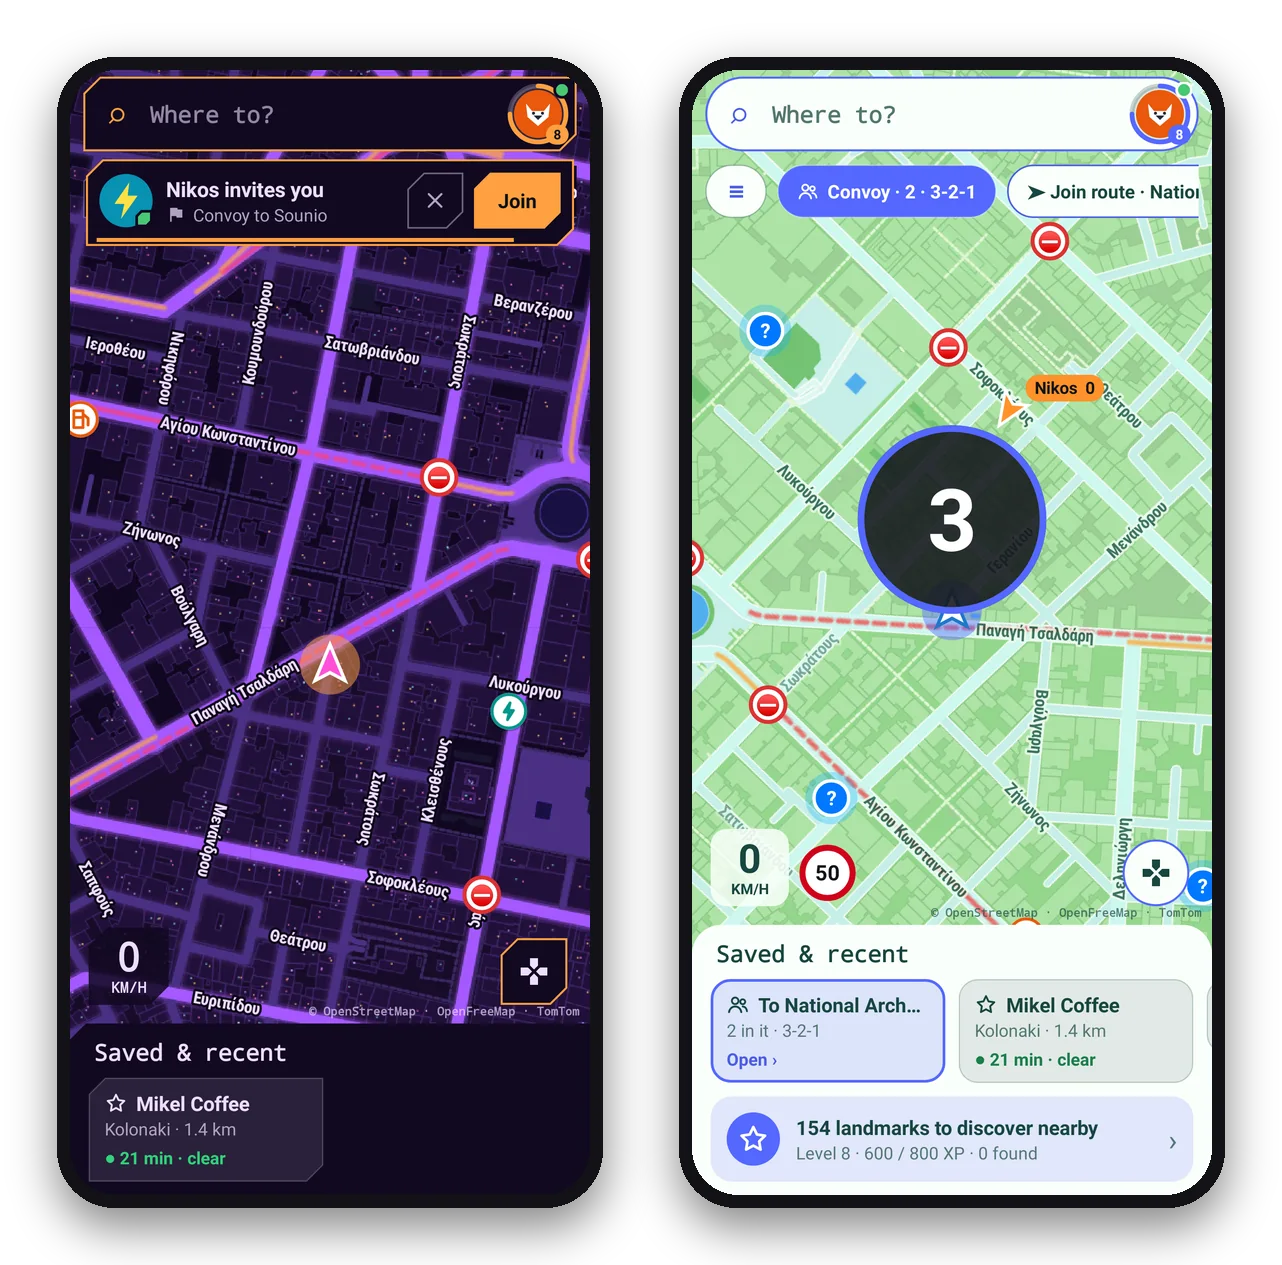
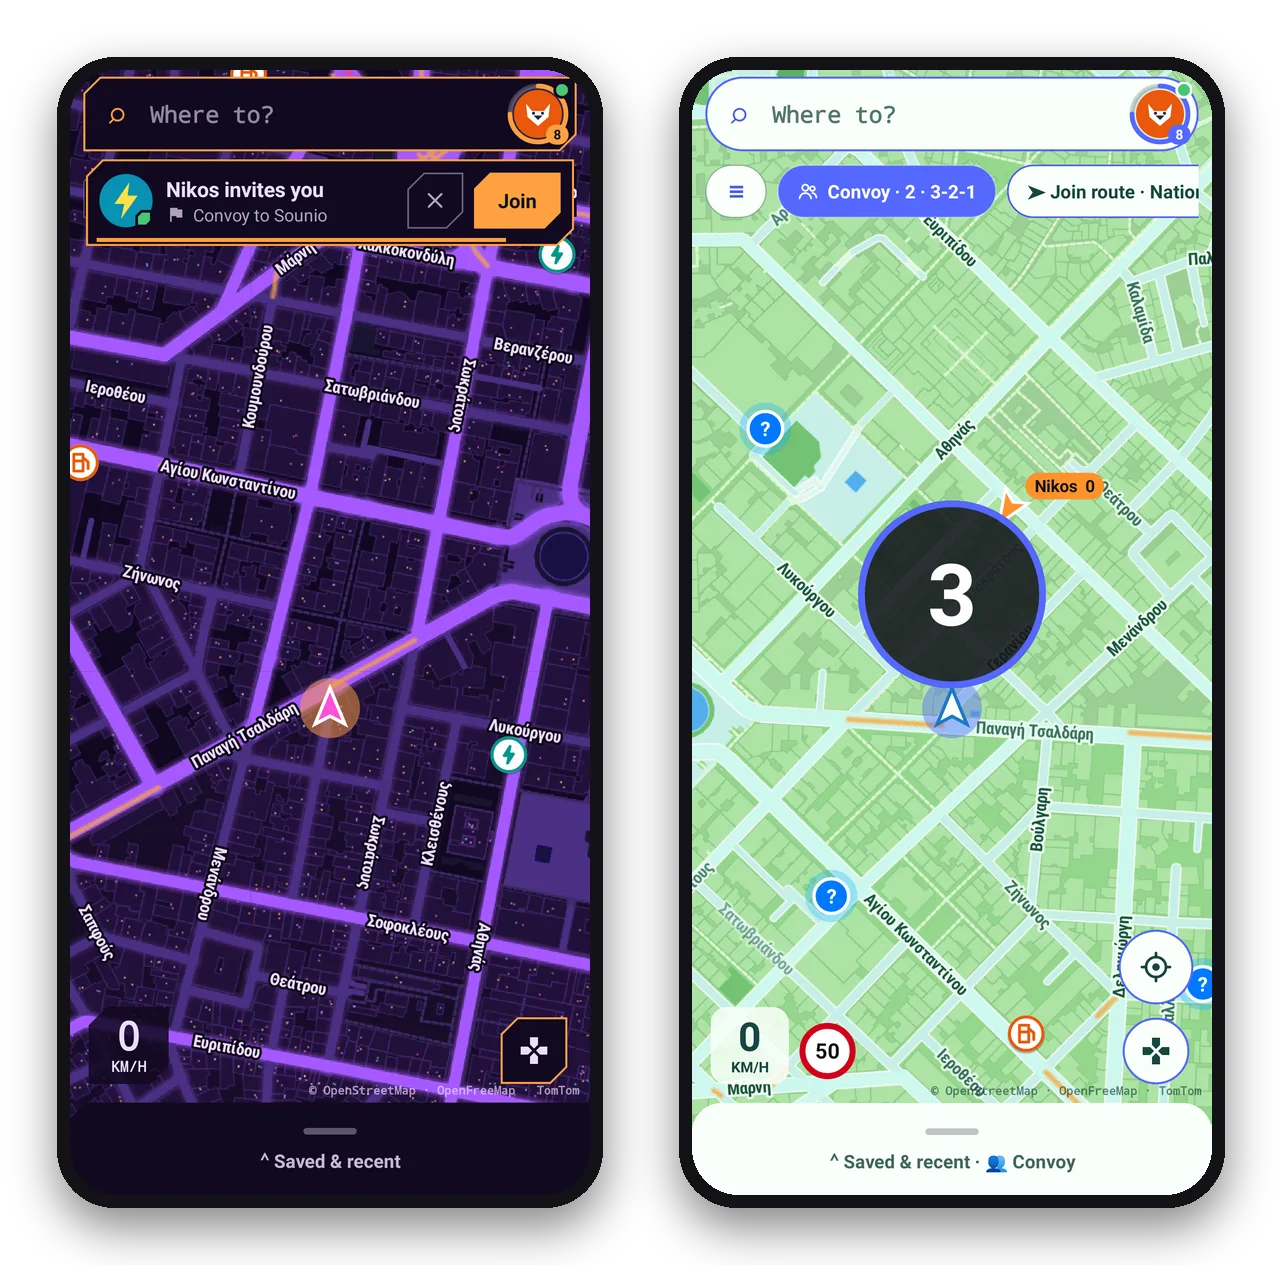
README pictures for 113
Claude-Session: https://claude.ai/code/session_01CciuioJVfRXxS6M8gZ8SfV

diff --git a/README.md b/README.md
@@ -11,7 +11,7 @@ Android · Android Auto · English and Ελληνικά
 
 <sub><a href="../../releases/latest">All releases</a> · <a href="#-install">How to install</a> · Android 8+ · free, no account</sub>
 
-<img src="docs/screenshots/hero.jpg" alt="A convoy lobby, driving in Violet Rain, and the You screen" width="100%">
+<img src="docs/screenshots/hero.jpg" alt="Choosing how to drive in a convoy, driving in Violet Rain, and the You screen" width="100%">
 
 </div>
 
@@ -67,7 +67,7 @@ Download a region in **Settings ▸ Offline maps** and the map and places work w
 
 ## 👥 Convoy
 
-<img src="docs/screenshots/convoy.webp" alt="Driving in a convoy, and the convoy lobby" width="100%">
+<img src="docs/screenshots/convoy.webp" alt="Driving in a convoy with the convoy button, and choosing how to drive" width="100%">
 
 **One tap away:** the Convoy chip sits right after ≡ and shows the convoy's live status.
 
